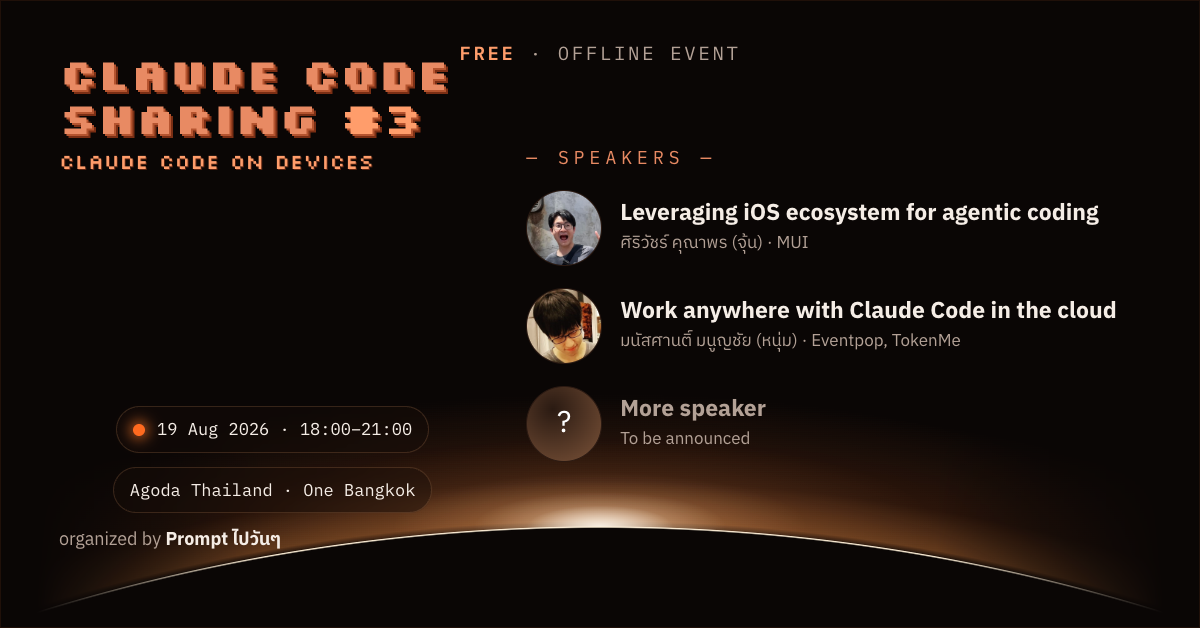
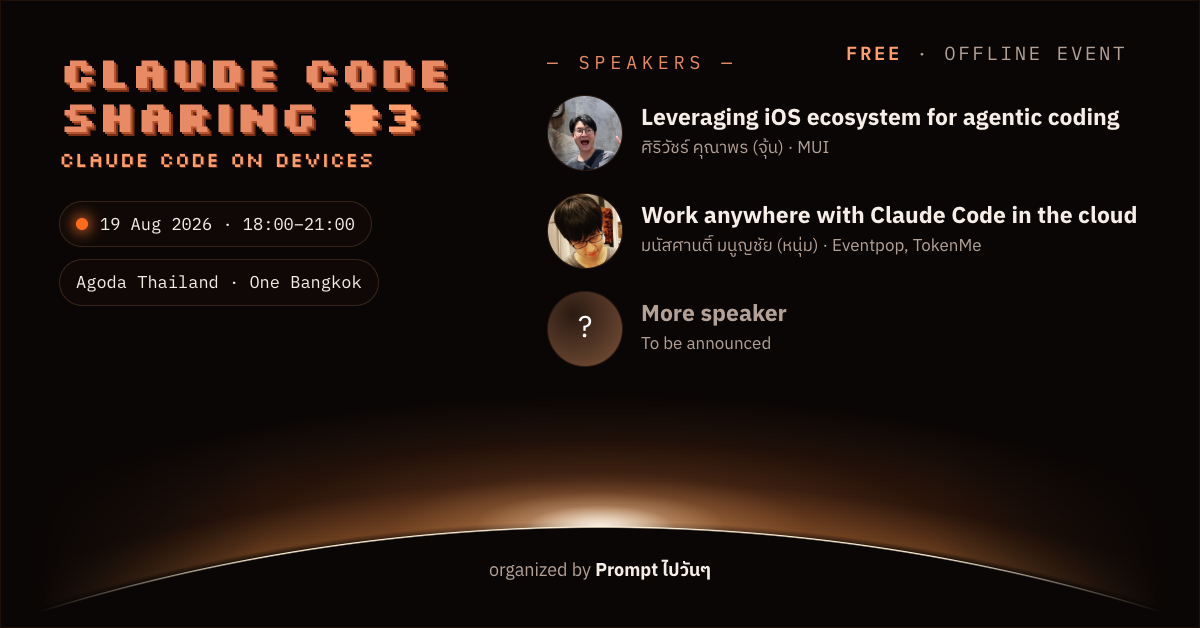
Speakers posters: FREE top-right, lift chips under tagline (landscape), organizer centered below curve

diff --git a/meetups/claude-code-3/styles.css b/meetups/claude-code-3/styles.css
@@ -179,10 +179,12 @@ a{color:inherit;text-decoration:none}
 
 /* ===== SPEAKERS poster variant ===== */
 .poster[data-variant="speakers"] .pcontent{display:grid;height:100%;position:relative}
+.poster[data-variant="speakers"] .pk-free{left:auto;right:6%;text-align:right}
 .spp-brandblock{grid-area:brand;display:flex;flex-direction:column;gap:.35em;justify-content:flex-start}
 .spp-brand{font-family:"Silkscreen",monospace;font-weight:700;color:var(--coral);line-height:1;text-shadow:2px 2px 0 var(--coral-deep),4px 4px 0 var(--coral-shadow)}
 .spp-brand .hash{color:var(--flame)}
 .spp-tag{font-family:"Silkscreen",monospace;color:var(--flame);text-shadow:1px 1px 0 rgba(122,46,20,.7)}
+.spp-chips{grid-area:chips;display:flex;flex-wrap:wrap;gap:12px}
 .spp-main{grid-area:main;display:flex;flex-direction:column;justify-content:center;min-height:0}
 .spp-label{font-family:"IBM Plex Mono",monospace;letter-spacing:.28em;text-transform:uppercase;color:var(--coral)}
 .spp-list{display:flex;flex-direction:column}
@@ -192,14 +194,16 @@ a{color:inherit;text-decoration:none}
 .spp-talk{font-weight:700;color:var(--bone);line-height:1.22}
 .spp-who{color:var(--ash)}
 .spp-tba .spp-talk{color:var(--ash)}
-.spp-footblock{grid-area:foot;display:flex;flex-direction:column}
-.pk-below2{color:var(--ash)} .pk-below2 b{color:var(--bone)}
+.spp-org{position:absolute;left:0;right:0;text-align:center;color:var(--ash)}
+.spp-org b{color:var(--bone)}
 
 /* portrait: stacked, list is the centrepiece */
 .poster[data-variant="speakers"][data-mode="portrait"]{--line-y:90%}
-.poster[data-variant="speakers"][data-mode="portrait"] .pcontent{grid-template-columns:1fr;grid-template-rows:auto 1fr auto;grid-template-areas:"brand" "main" "foot";padding:120px 60px 60px;text-align:center}
+.poster[data-variant="speakers"][data-mode="portrait"] .pcontent{grid-template-columns:1fr;grid-template-rows:auto 1fr auto;grid-template-areas:"brand" "main" "chips";padding:116px 60px 150px;text-align:center;justify-items:center}
 .poster[data-variant="speakers"][data-mode="portrait"] .pk-free{top:4%}
 .poster[data-variant="speakers"][data-mode="portrait"] .spp-brandblock{align-items:center}
+.poster[data-variant="speakers"][data-mode="portrait"] .spp-chips{justify-content:center}
+.poster[data-variant="speakers"][data-mode="portrait"] .spp-org{bottom:4.5%;font-size:22px}
 .poster[data-variant="speakers"][data-mode="portrait"] .spp-brand{font-size:50px}
 .poster[data-variant="speakers"][data-mode="portrait"] .spp-tag{font-size:24px}
 .poster[data-variant="speakers"][data-mode="portrait"] .spp-main{gap:28px}
@@ -210,14 +214,14 @@ a{color:inherit;text-decoration:none}
 .poster[data-variant="speakers"][data-mode="portrait"] .spp-avq{font-size:46px}
 .poster[data-variant="speakers"][data-mode="portrait"] .spp-talk{font-size:32px}
 .poster[data-variant="speakers"][data-mode="portrait"] .spp-who{font-size:22px;margin-top:5px}
-.poster[data-variant="speakers"][data-mode="portrait"] .spp-footblock{align-items:center;gap:16px}
 .poster[data-variant="speakers"][data-mode="portrait"] .pk-chip{font-size:20px;padding:12px 22px}
-.poster[data-variant="speakers"][data-mode="portrait"] .pk-below2{font-size:22px}
 
 /* landscape: brand top-left, foot bottom-left, list dominates the right */
 .poster[data-variant="speakers"][data-mode="landscape"]{--line-y:84%}
-.poster[data-variant="speakers"][data-mode="landscape"] .pcontent{grid-template-columns:.82fr 1.18fr;grid-template-rows:auto 1fr auto;grid-template-areas:"brand main" ". main" "foot main";column-gap:40px;padding:50px 58px 72px;align-items:stretch}
+.poster[data-variant="speakers"][data-mode="landscape"] .pcontent{grid-template-columns:.86fr 1.14fr;grid-template-rows:auto auto 1fr;grid-template-areas:"brand main" "chips main" ".     main";column-gap:40px;padding:48px 58px 60px;align-items:start}
 .poster[data-variant="speakers"][data-mode="landscape"] .spp-brandblock{align-items:flex-start;text-align:left}
+.poster[data-variant="speakers"][data-mode="landscape"] .spp-chips{margin-top:26px}
+.poster[data-variant="speakers"][data-mode="landscape"] .spp-org{bottom:6.5%;font-size:18px}
 .poster[data-variant="speakers"][data-mode="landscape"] .spp-brand{font-size:44px}
 .poster[data-variant="speakers"][data-mode="landscape"] .spp-tag{font-size:21px}
 .poster[data-variant="speakers"][data-mode="landscape"] .spp-main{gap:18px}
@@ -228,6 +232,4 @@ a{color:inherit;text-decoration:none}
 .poster[data-variant="speakers"][data-mode="landscape"] .spp-avq{font-size:30px}
 .poster[data-variant="speakers"][data-mode="landscape"] .spp-talk{font-size:23px}
 .poster[data-variant="speakers"][data-mode="landscape"] .spp-who{font-size:17px;margin-top:3px}
-.poster[data-variant="speakers"][data-mode="landscape"] .spp-footblock{align-items:flex-start;text-align:left;justify-content:flex-end;gap:14px}
 .poster[data-variant="speakers"][data-mode="landscape"] .pk-chip{font-size:17px;padding:9px 16px}
-.poster[data-variant="speakers"][data-mode="landscape"] .pk-below2{font-size:18px}

diff --git a/meetups/claude-code-3/index.html b/meetups/claude-code-3/index.html
@@ -194,6 +194,10 @@
       +'<div class="spp-brand">CLAUDE CODE SHARING <span class="hash">#3</span></div>'
       +'<div class="spp-tag">Claude Code on Devices</div>'
     +'</div>'
+    +'<div class="spp-chips">'
+      +'<span class="pk-chip"><span class="dot"></span>19 Aug 2026 · 18:00–21:00</span>'
+      +'<span class="pk-chip">Agoda Thailand · One Bangkok</span>'
+    +'</div>'
     +'<div class="spp-main">'
       +'<div class="spp-label">— Speakers —</div>'
       +'<div class="spp-list">'
@@ -202,13 +206,7 @@
         +row('','More speaker','To be announced',true)
       +'</div>'
     +'</div>'
-    +'<div class="spp-footblock">'
-      +'<div class="pk-chips">'
-        +'<span class="pk-chip"><span class="dot"></span>19 Aug 2026 · 18:00–21:00</span>'
-        +'<span class="pk-chip">Agoda Thailand · One Bangkok</span>'
-      +'</div>'
-      +'<div class="pk-below2">organized by <b>Prompt ไปวันๆ</b></div>'
-    +'</div>';};
+    +'<div class="spp-org">organized by <b>Prompt ไปวันๆ</b></div>';};
   var TPL={event:EVENT,speakers:SPEAKERS}, DIR={event:'posters/',speakers:'posters/speakers/'};
   var variant='event';
   var names={'1200x630':'Facebook Link','1200x1500':'Facebook Photo','800x1132':'Eventpop Poster','1200x628':'Eventpop Cover'};
